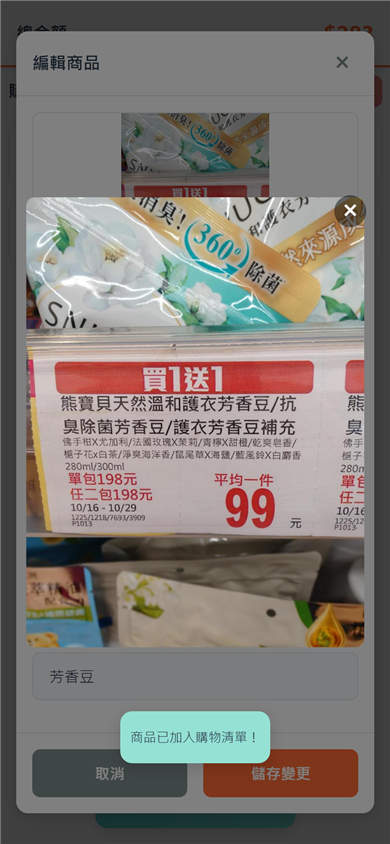
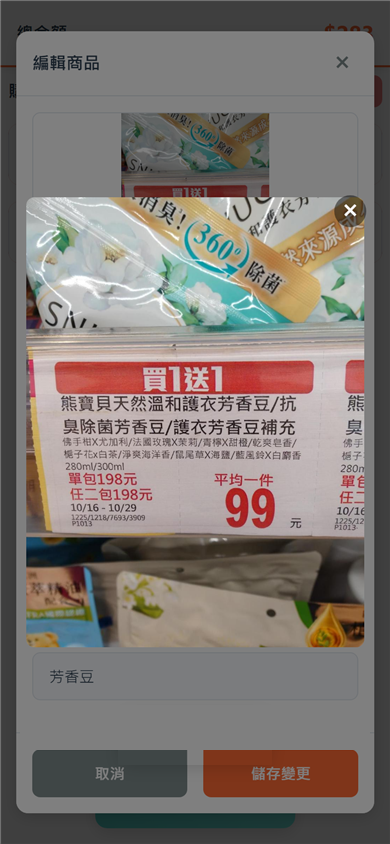
修正圖片

Changed region(s): [[0.3077, 0.8318, 0.7077, 0.9242]]

diff --git a/README.md b/README.md
@@ -16,7 +16,7 @@
   <img src="image/step1-home.png" alt="首頁：點新增商品" width="280">
 </p>
 
-2. 拍下價目／促銷標籤 → 填品名、單價、數量、特價 → 確認加入
+2. 拍下價目／促銷標籤 → 填單價、數量、特價(非必填)、品名(非必填) → 確認加入
 
 <p align="center">
   <img src="image/price_tag1.jpg" alt="商品標籤：芳香豆" width="280">
@@ -39,13 +39,13 @@
 ## 四個原則
 
 **特價是公式，不是印象**  
-提供台灣最常見的 買一送一、買二送一、第二件半價、X個Y元（例如 3 個 100 元）。對不上的檔期（例如買三送一）用自訂小計。規則一選，小計與總額自動重算。
+提供台灣最常見的 買一送一、買二送一、第二件半價、X個Y元（例如 3 個 100 元）。特殊檔期活動（例如買三送一）用自訂小計。規則一選，小計與總額自動重算。
 
 **一筆貨架，一個流水號**  
 同一品名可以出現多次 — 購買兩罐可能一個原價、一個半價。照片綁在該筆商品上，事後用照片核對，不必憑記憶改價。
 
 **算完即走，資料不帶走**  
-所有都在手機上完成。清單只活在這一次開啟裡：逛完、結完、關掉，草稿就結束。它服務的是結帳前的幾分鐘，而不是長期的消費紀錄。沒有帳號、不需網路，系統負擔也最小。
+所有都在手機上完成。清單只保留在這一次開啟裡：逛完、結完、關掉，草稿就結束。服務的是結帳前的幾分鐘，而不是長期的消費紀錄。沒有帳號、不需網路，系統負擔也最小。
 
 **爭議有憑據**  
 標籤拍下來就是證據。金額和店方對不上時，不用乾等「支援收銀」再跑回貨架，照片拿出來就能溝通。
